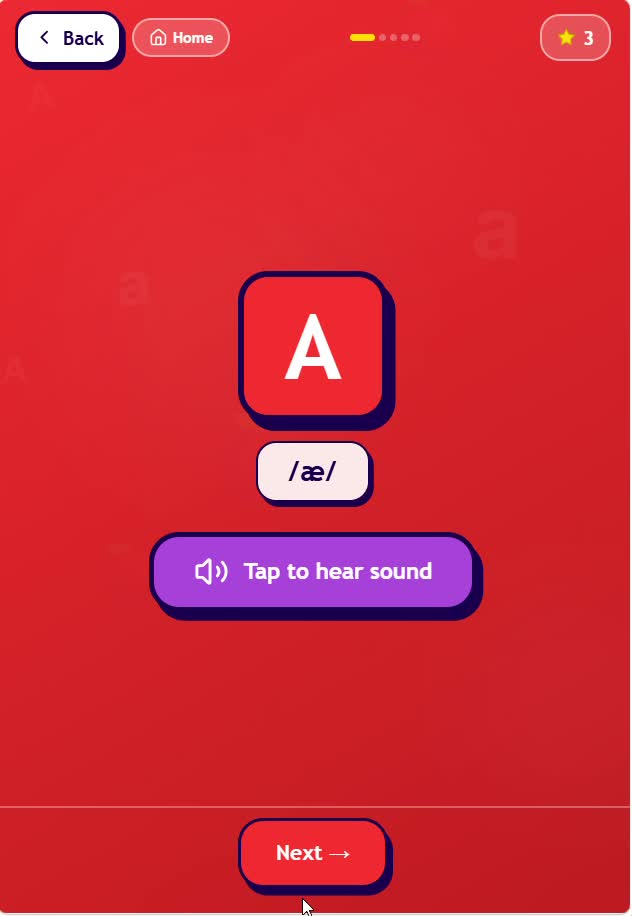
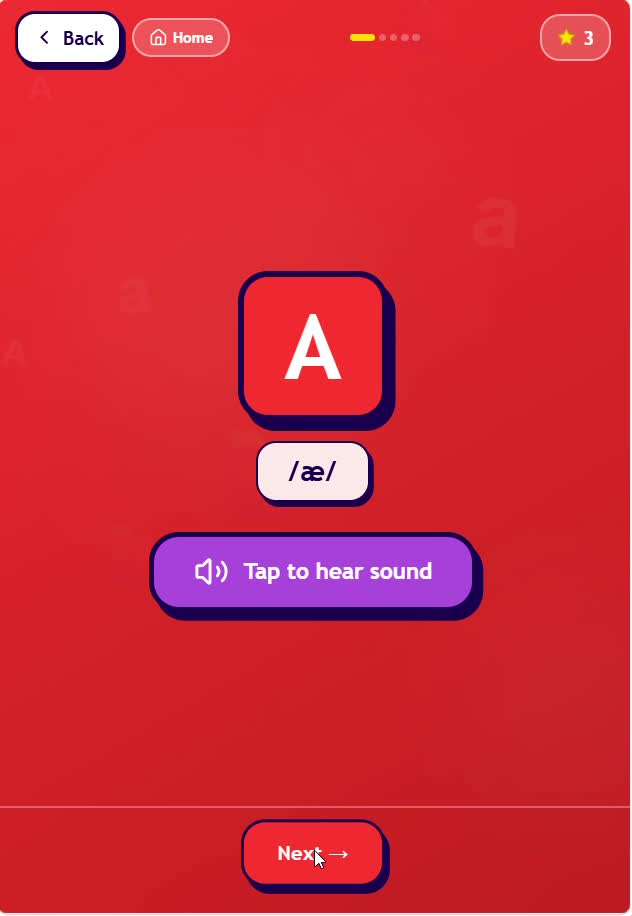
feat(case-study): add side-by-side Before and After phone mockups for Feedback Loop #2 eliminating visual noise

Changed region(s): [[0.3608, 0.8865, 0.6313, 1.0]]

diff --git a/app/globals.css b/app/globals.css
@@ -2197,6 +2197,145 @@
     max-width: 100%;
   }
 
+  /* ── Before & After Phone Mockup Comparison (UXBrainy Reference Style) ── */
+  .f-side-by-side-comparison {
+    width: 100%;
+    margin-top: 24px;
+    padding: 28px 20px 24px 20px;
+    background: #FAFAFC;
+    border: 1px solid #E5E7EB;
+    border-radius: 24px;
+    display: flex;
+    flex-direction: column;
+    align-items: center;
+  }
+
+  .f-comparison-header-arrow {
+    display: flex;
+    align-items: center;
+    justify-content: center;
+    gap: 80px;
+    width: 100%;
+    max-width: 600px;
+    margin-bottom: 20px;
+    position: relative;
+  }
+
+  .f-comparison-label {
+    font-size: 18px;
+    font-weight: 700;
+    color: var(--ink, #0f172a);
+    letter-spacing: -0.01em;
+  }
+
+  .f-comparison-curved-arrow {
+    position: absolute;
+    top: 50%;
+    left: 50%;
+    transform: translate(-50%, -50%);
+    width: 80px;
+    height: 36px;
+    color: #64748B;
+  }
+
+  .f-comparison-columns {
+    display: grid;
+    grid-template-columns: 1fr 1fr;
+    gap: 36px;
+    width: 100%;
+    max-width: 740px;
+    margin: 0 auto;
+  }
+
+  @media (max-width: 640px) {
+    .f-comparison-columns {
+      grid-template-columns: 1fr;
+      gap: 32px;
+    }
+    .f-comparison-header-arrow {
+      gap: 30px;
+    }
+  }
+
+  .f-comparison-col {
+    display: flex;
+    flex-direction: column;
+    align-items: center;
+    width: 100%;
+  }
+
+  .f-comparison-title {
+    font-size: 16px;
+    font-weight: 700;
+    color: var(--ink, #0f172a);
+    margin-bottom: 14px;
+    text-align: center;
+    display: flex;
+    align-items: center;
+    gap: 8px;
+  }
+
+  .f-comparison-badge {
+    font-size: 11px;
+    font-weight: 700;
+    padding: 3px 8px;
+    border-radius: 6px;
+    text-transform: uppercase;
+    letter-spacing: 0.04em;
+  }
+
+  .f-comparison-badge.before {
+    background: #FEE2E2;
+    color: #DC2626;
+  }
+
+  .f-comparison-badge.after {
+    background: #DCFCE7;
+    color: #16A34A;
+  }
+
+  .f-comparison-frame {
+    width: 100%;
+    max-width: 270px;
+    margin: 0 auto;
+    position: relative;
+    border-radius: 40px;
+    background: #0f1013;
+    padding: 10px;
+    box-shadow: 0 20px 45px -10px rgba(0, 0, 0, 0.28), 0 0 0 1px rgba(0, 0, 0, 0.08);
+    transition: transform 0.2s ease, box-shadow 0.2s ease;
+  }
+
+  .f-comparison-frame:hover {
+    transform: translateY(-4px);
+    box-shadow: 0 26px 55px -10px rgba(0, 0, 0, 0.35);
+  }
+
+  .f-comparison-screen {
+    position: relative;
+    width: 100%;
+    aspect-ratio: 9 / 18.5;
+    border-radius: 32px;
+    overflow: hidden;
+    background: #FF3B30;
+  }
+
+  .f-comparison-screen img {
+    width: 100%;
+    height: 100%;
+    object-fit: cover;
+    display: block;
+  }
+
+  .f-comparison-notes {
+    margin-top: 14px;
+    font-size: 12.5px;
+    color: var(--muted, #64748b);
+    line-height: 1.5;
+    text-align: center;
+    max-width: 260px;
+  }
+
   /* ── Learn Fun Design Principles Component Mockups ── */
   .lf-principles-section-wrapper {
     display: flex;

diff --git a/components/LearnFunMicroInteractions.tsx b/components/LearnFunMicroInteractions.tsx
@@ -599,6 +599,69 @@ export function FeedbackDecisionComparison({ feedback, decision, before, after }
           )}
         </div>
       </div>
+
+      {/* 4. Side-by-Side Phone Mockups (UXBrainy Reference Style) */}
+      <div className="f-side-by-side-comparison">
+        {/* Curving Header Arrow between Before and After */}
+        <div className="f-comparison-header-arrow">
+          <span className="f-comparison-label">Before</span>
+          <svg
+            className="f-comparison-curved-arrow"
+            viewBox="0 0 100 40"
+            fill="none"
+            stroke="currentColor"
+            strokeWidth="2.2"
+            strokeLinecap="round"
+            strokeLinejoin="round"
+            aria-hidden="true"
+          >
+            <path d="M 10 32 Q 50 4 90 28" />
+            <polyline points="82 22 92 28 88 38" />
+          </svg>
+          <span className="f-comparison-label">After</span>
+        </div>
+
+        {/* Two Phone Mockups Side-by-Side */}
+        <div className="f-comparison-columns">
+          {/* Before Mockup */}
+          <div className="f-comparison-col">
+            <div className="f-comparison-title">
+              <span className="f-comparison-badge before">Before Testing</span>
+              <span>Decorative Clutter</span>
+            </div>
+            <div className="f-comparison-frame">
+              <div className="f-comparison-screen">
+                <img
+                  src="/images/learn-fun/letters-learned-before.png"
+                  alt="Before testing: Extraneous decorative sparkles, border stars, and multiple non-functional buttons"
+                />
+              </div>
+            </div>
+            <p className="f-comparison-notes">
+              Extraneous decorative stars and multi-button chrome created false affordances and divided child attention.
+            </p>
+          </div>
+
+          {/* After Mockup */}
+          <div className="f-comparison-col">
+            <div className="f-comparison-title">
+              <span className="f-comparison-badge after">After Simplification</span>
+              <span>Clean Functional UI</span>
+            </div>
+            <div className="f-comparison-frame">
+              <div className="f-comparison-screen">
+                <img
+                  src="/images/learn-fun/letters-learned-after.png"
+                  alt="After simplification: Removed decorative stars, direct focus to letter and large sound button"
+                />
+              </div>
+            </div>
+            <p className="f-comparison-notes">
+              Removed all non-functional icons. Clean visual hierarchy directs 100% of focus to letter sound & exploration.
+            </p>
+          </div>
+        </div>
+      </div>
     </div>
   );
 }
